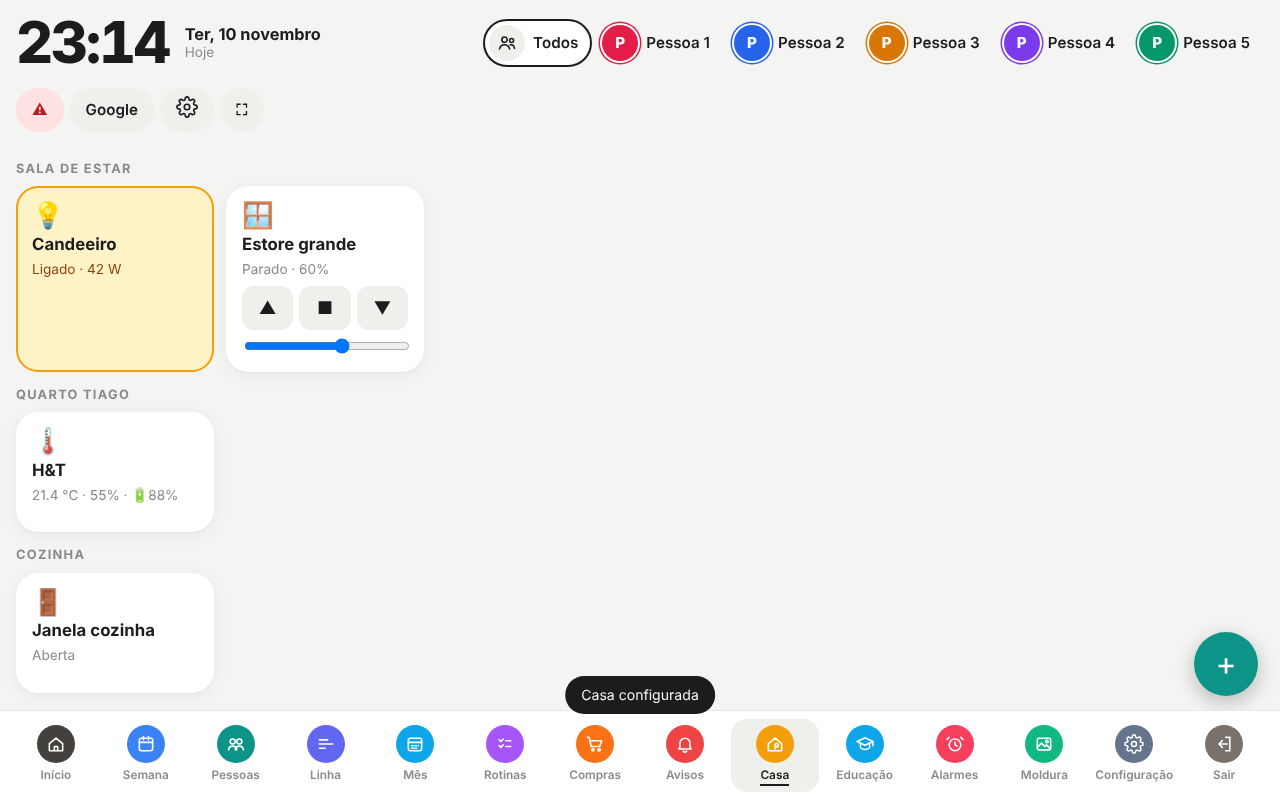
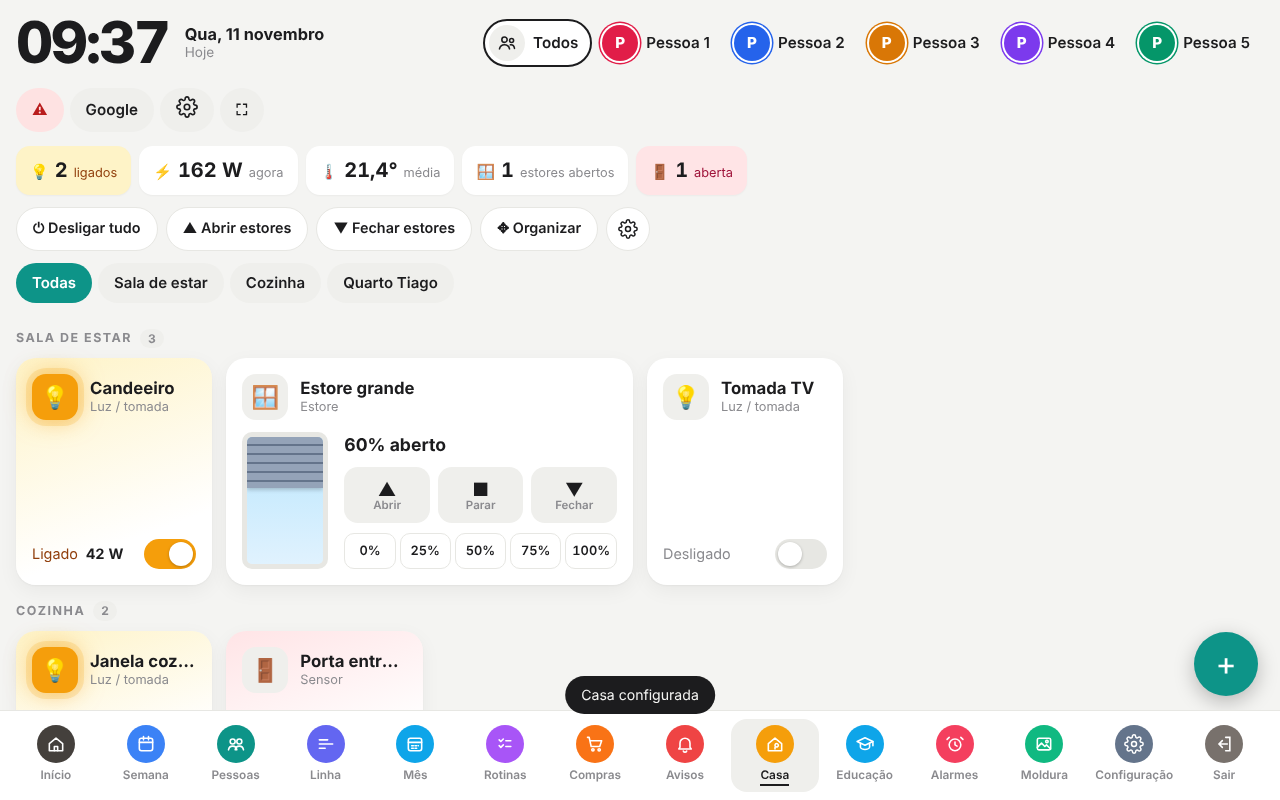
Casa: novo layout (resumo, ações rápidas, filtro por divisão, estores com janela e posições) e modo Organizar para arrastar cartões
Claude-Session: https://claude.ai/code/session_01Ya5v9GQ5A2ZK6yAftn9L3q

diff --git a/js/app.js b/js/app.js
@@ -1071,7 +1071,7 @@ function renderWall(){
   const navSafe=()=>safe(navBar,'o menu');
   html=(v==='moldura'?safe(wallFrame,'a Moldura'):safe(wallHead,'o topo')+safe(body,'esta vista')+fab)+navSafe();
   document.getElementById('wall').innerHTML=html;
-  refocus();dockVideo();initSort();if(ytFocus){const q=document.getElementById(ytFocus);if(q){q.focus();q.setSelectionRange(q.value.length,q.value.length)}}if(v==='moldura'&&S.frameMode==='radio')loadStations(false);
+  refocus();dockVideo();initSort();if(v==='casa')shInitSort();if(ytFocus){const q=document.getElementById(ytFocus);if(q){q.focus();q.setSelectionRange(q.value.length,q.value.length)}}if(v==='moldura'&&S.frameMode==='radio')loadStations(false);
 }
 function wallShopping(){return shopBody(true)}
 function toMin(hm){const[h,m]=String(hm).split(':').map(Number);return h*60+(m||0)}
@@ -2426,24 +2426,80 @@ async function shNames(st){const out={};
   try{const d=await shPost('/device/all_status',{show_info:'true'});Object.entries((d&&d.devices_status)||{}).forEach(([id,s])=>{const i=s._dev_info||{};
     if(i.name&&!(out[id+'|0']&&out[id+'|0'].name))out[id+'|0']={name:i.name,room:i.room_name||''}});if(d&&d.devices_status)Object.assign(st,d.devices_status)}catch(e){}
   return out}
+// vários comandos seguidos respeitando o limite da Shelly Cloud (1 pedido por segundo)
+async function shBatch(devs,fn){if(!devs.length)return;toast('A enviar para '+devs.length+(devs.length===1?' dispositivo':' dispositivos')+'…');
+  for(let i=0;i<devs.length;i++){try{await fn(devs[i])}catch(e){toast(e.message)}if(i<devs.length-1)await new Promise(r=>setTimeout(r,1100))}setTimeout(()=>shRefresh(true),1200)}
 function shKey(d){return d.id+'|'+d.type+'|'+(+d.channel||0)}
 function wallCasa(){
-  const c=shCfg(),devs=(c.devices||[]).filter(d=>d.on!==false);
-  if(!c.key||!shHost())return `<section class="casa"><div class="w-card" style="padding:20px"><h3 style="margin-top:0">🏠 Casa</h3><p>Liga a tua conta Shelly para controlar luzes, tomadas e estores e ver os sensores.</p><button class="addbtn" data-shcfg>Ligar Shelly Cloud</button></div></section>`;
+  const c=shCfg(),all=(c.devices||[]).filter(d=>d.on!==false);
+  if(!c.key||!shHost())return `<section class="casa"><div class="sh-empty"><span class="sh-empty-ic">🏠</span><h3>Casa</h3><p>Liga a tua conta Shelly para controlar luzes, tomadas e estores e ver os sensores.</p><button class="addbtn" data-shcfg>Ligar Shelly Cloud</button></div></section>`;
   if(!SH.poll){SH.poll=setInterval(()=>{if((S.wall&&S.wallView==='casa')||(!S.wall&&S.tab==='casa'))shRefresh(false);else{clearInterval(SH.poll);SH.poll=null}},10000)}
   if(!SH.st&&!SH.busy&&!SH.err)shRefresh(true);
-  if(!SH.namesTried&&devs.some(d=>!d.name||!d.room)){SH.namesTried=true;shNames({}).then(n=>{SH.names=n;if(Object.keys(n).length){if(S.wall&&S.wallView==='casa'&&!overlay.innerHTML)renderWall()}})}
+  if(!SH.namesTried&&all.some(d=>!d.name||!d.room)){SH.namesTried=true;shNames({}).then(n=>{SH.names=n;if(Object.keys(n).length&&S.wall&&S.wallView==='casa'&&!overlay.innerHTML)renderWall()})}
   const nmOf=d=>(SH.names&&(SH.names[d.id+'|'+(+d.channel||0)]||SH.names[d.id+'|0']))||{};
-  const rooms={};devs.forEach(d=>{const r=d.room||nmOf(d).room||'Casa';(rooms[r]=rooms[r]||[]).push(d)});
-  const tile=d=>{const s=shState(d);const nm=esc(d.name||nmOf(d).name||d.id);const off=s&&s.online===false;
-    if(d.type==='switch')return `<button class="sh-tile sh-sw${s&&s.on?' on':''}${off?' offline':''}" data-shsw="${esc(shKey(d))}" aria-pressed="${!!(s&&s.on)}"><span class="sh-ic">${s&&s.on?'💡':'⚪'}</span><b>${nm}</b><small>${!s?'…':off?'Sem ligação':(s.on?'Ligado':'Desligado')+(s.w!=null&&s.w>0?' · '+Math.round(s.w)+' W':'')}</small></button>`;
-    if(d.type==='cover')return `<div class="sh-tile sh-cv${off?' offline':''}"><span class="sh-ic">🪟</span><b>${nm}</b><small>${!s?'…':off?'Sem ligação':(s.state==='open'||s.state==='opening'?'A subir':s.state==='close'||s.state==='closing'?'A descer':'Parado')+(s.pos!=null?' · '+s.pos+'%':'')}</small>
-      <div class="sh-cvb"><button data-shcv="${esc(shKey(d))}|open" aria-label="Subir">▲</button><button data-shcv="${esc(shKey(d))}|stop" aria-label="Parar">■</button><button data-shcv="${esc(shKey(d))}|close" aria-label="Descer">▼</button></div>
-      ${s&&s.pos!=null?`<input type="range" min="0" max="100" step="10" value="${s.pos}" data-shpos="${esc(shKey(d))}" aria-label="Posição">`:''}</div>`;
-    return `<div class="sh-tile sh-sn${off?' offline':''}"><span class="sh-ic">${s&&s.open!=null?(s.open?'🚪':'🔒'):s&&s.w!=null?'⚡':'🌡'}</span><b>${nm}</b><small>${!s?'…':off?'Sem ligação':[s.t!=null?Math.round(s.t*10)/10+' °C':'',s.h!=null?Math.round(s.h)+'%':'',s.open!=null?(s.open?'Aberta':'Fechada'):'',s.w!=null?Math.round(s.w)+' W':'',s.bat!=null?'🔋'+s.bat+'%':''].filter(Boolean).join(' · ')||'—'}</small></div>`};
-  return `<section class="casa">${SH.err?`<div class="w-card w-err" style="padding:12px 16px;margin-bottom:12px">${esc(SH.err)} <button class="ghost" data-shre>Tentar de novo</button></div>`:''}
-    ${devs.length?Object.entries(rooms).map(([r,ds])=>`<h3 class="sh-room">${esc(r)}</h3><div class="sh-grid">${ds.map(tile).join('')}</div>`).join(''):'<div class="w-card" style="padding:20px">Ainda não escolheste dispositivos. <button class="addbtn" data-shcfg>Escolher dispositivos</button></div>'}
-    <p class="small muted" style="margin-top:14px">${SH.at?'Atualizado às '+new Date(SH.at).toTimeString().slice(0,5)+' · ':''}<button class="edit" data-shcfg>Configurar</button></p></section>`}
+  const roomOf=d=>d.room||nmOf(d).room||'Casa';
+  const roomNames=[...new Set(all.map(roomOf))];
+  const fr=S.shRoom&&roomNames.includes(S.shRoom)?S.shRoom:'';
+  const devs=fr?all.filter(d=>roomOf(d)===fr):all;
+  // resumo
+  const st=all.map(d=>[d,shState(d)]);
+  const lightsOn=st.filter(([d,s])=>d.type==='switch'&&s&&s.on).length;
+  const watts=st.reduce((a,[d,s])=>a+(s&&s.w>0?s.w:0),0);
+  const temps=st.filter(([d,s])=>s&&s.t!=null).map(([d,s])=>s.t);
+  const openW=st.filter(([d,s])=>s&&s.open===true).length;
+  const coversOpen=st.filter(([d,s])=>d.type==='cover'&&s&&s.pos>0).length;
+  const chip=(ic,v,l,cls='')=>`<div class="sh-sum${cls}"><span>${ic}</span><b>${v}</b><small>${l}</small></div>`;
+  const summary=`<div class="sh-top">
+    <div class="sh-sums">${chip('💡',lightsOn,lightsOn===1?'ligado':'ligados',lightsOn?' hot':'')}${chip('⚡',Math.round(watts)+' W','agora')}${temps.length?chip('🌡',(Math.round(temps.reduce((a,b)=>a+b,0)/temps.length*10)/10).toLocaleString('pt-PT')+'°','média'):''}${chip('🪟',coversOpen,'estores abertos')}${openW?chip('🚪',openW,openW===1?'aberta':'abertas',' warn'):''}</div>
+    <div class="sh-acts">
+      ${lightsOn?`<button class="sh-act" data-shall="off">⏻ Desligar tudo</button>`:''}
+      ${st.some(([d])=>d.type==='cover')?`<button class="sh-act" data-shallcv="open">▲ Abrir estores</button><button class="sh-act" data-shallcv="close">▼ Fechar estores</button>`:''}
+      <button class="sh-act${S.shEdit?' on':''}" data-shedit aria-pressed="${!!S.shEdit}">${S.shEdit?'✓ Concluído':'✥ Organizar'}</button>
+      <button class="sh-act ic" data-shcfg aria-label="Configurar">${GEAR}</button>
+    </div></div>
+    ${roomNames.length>1?`<div class="sh-rooms" role="group" aria-label="Divisões"><button data-shroom="" aria-pressed="${!fr}">Todas</button>${roomNames.map(r=>`<button data-shroom="${esc(r)}" aria-pressed="${fr===r}">${esc(r)}</button>`).join('')}</div>`:''}`;
+  const sub=(s,off,txt)=>!s?'<span class="sh-dim">a carregar…</span>':off?'<span class="sh-off">Sem ligação</span>':txt;
+  const tile=d=>{const s=shState(d),k=esc(shKey(d)),nm=esc(d.name||nmOf(d).name||d.id),off=s&&s.online===false;
+    const head=(ic,cls='')=>`<div class="sh-h"><span class="sh-ic${cls}">${ic}</span><span class="sh-nm"><b>${nm}</b><small>${d.type==='switch'?'Luz / tomada':d.type==='cover'?'Estore':'Sensor'}</small></span></div>`;
+    if(d.type==='switch'){const on=!!(s&&s.on);
+      return `<div class="sh-tile sh-sw${on?' on':''}${off?' offline':''}" data-k="${k}"><button class="sh-hit" data-shsw="${k}" aria-pressed="${on}" aria-label="${nm}: ${on?'desligar':'ligar'}"></button>
+        ${head(on?'💡':'💡',on?' lit':'')}
+        <div class="sh-ft"><span class="sh-st">${sub(s,off,on?'Ligado':'Desligado')}${on&&s.w>0?`<em>${Math.round(s.w)} W</em>`:''}</span><span class="sh-tg" aria-hidden="true"><i></i></span></div></div>`}
+    if(d.type==='cover'){const pos=s&&s.pos!=null?s.pos:null,mv=s&&(s.state==='open'||s.state==='opening')?'up':s&&(s.state==='close'||s.state==='closing')?'down':'';
+      const closed=pos==null?50:100-pos;
+      return `<div class="sh-tile sh-cv${off?' offline':''}" data-k="${k}">
+        ${head('🪟')}
+        <div class="sh-cvb">
+          <div class="sh-win${mv?' mv-'+mv:''}" aria-hidden="true"><div class="sh-sky"></div><div class="sh-slats" style="height:${closed}%"></div></div>
+          <div class="sh-cvc">
+            <div class="sh-st big">${sub(s,off,mv==='up'?'A abrir…':mv==='down'?'A fechar…':pos===0?'Fechado':pos===100?'Aberto':pos!=null?pos+'% aberto':'Parado')}</div>
+            <div class="sh-btns"><button data-shcv="${k}|open" aria-label="Abrir">▲<small>Abrir</small></button><button data-shcv="${k}|stop" aria-label="Parar">■<small>Parar</small></button><button data-shcv="${k}|close" aria-label="Fechar">▼<small>Fechar</small></button></div>
+            ${pos!=null?`<div class="sh-pre">${[0,25,50,75,100].map(p=>`<button data-shpre="${k}|${p}" aria-pressed="${Math.abs(pos-p)<5}">${p}%</button>`).join('')}</div>`:''}
+          </div></div></div>`}
+    // sensores
+    if(s&&s.open!=null&&s.t==null)return `<div class="sh-tile sh-sn sh-door ${s.open?'open':'shut'}${off?' offline':''}" data-k="${k}">${head(s.open?'🚪':'🔒')}
+      <div class="sh-big">${off?'—':s.open?'Aberta':'Fechada'}</div>${s.bat!=null?`<div class="sh-mini">🔋 ${s.bat}%</div>`:''}</div>`;
+    if(s&&s.t==null&&s.w!=null)return `<div class="sh-tile sh-sn${off?' offline':''}" data-k="${k}">${head('⚡')}<div class="sh-big">${Math.round(s.w)}<span>W</span></div></div>`;
+    return `<div class="sh-tile sh-sn${off?' offline':''}" data-k="${k}">${head('🌡')}
+      <div class="sh-big">${s&&s.t!=null?(Math.round(s.t*10)/10).toLocaleString('pt-PT')+'<span>°C</span>':sub(s,off,'—')}</div>
+      <div class="sh-mini">${s&&s.h!=null?`<span>💧 ${Math.round(s.h)}%</span>`:''}${s&&s.bat!=null?`<span>🔋 ${s.bat}%</span>`:''}${s&&s.open!=null?`<span>${s.open?'🚪 Aberta':'🔒 Fechada'}</span>`:''}</div></div>`};
+  const groups={};devs.forEach(d=>{const r=roomOf(d);(groups[r]=groups[r]||[]).push(d)});
+  const body=devs.length?Object.entries(groups).map(([r,ds])=>`${fr?'':`<h3 class="sh-room">${esc(r)}<small>${ds.length}</small></h3>`}<div class="sh-grid${S.shEdit?' editing':''}" data-shgrid="${esc(r)}">${ds.map(tile).join('')}</div>`).join('')
+    :'<div class="sh-empty"><p>Ainda não escolheste dispositivos.</p><button class="addbtn" data-shcfg>Escolher dispositivos</button></div>';
+  return `<section class="casa">${summary}${SH.err?`<div class="w-card w-err" style="padding:12px 16px;margin:0 0 12px">${esc(SH.err)} <button class="ghost" data-shre>Tentar de novo</button></div>`:''}
+    ${S.shEdit?'<p class="sh-hint">Arrasta os cartões para os reorganizar. Larga-os noutra divisão para os mudar de divisão.</p>':''}
+    ${body}<p class="small muted sh-upd">${SH.at?'Atualizado às '+new Date(SH.at).toTimeString().slice(0,5):''}</p></section>`}
+function shSaveOrder(){const c=shCfg();const devs=[...(c.devices||[])];const byK={};devs.forEach(d=>byK[shKey(d)]=d);
+  const seen=new Set(),out=[];
+  document.querySelectorAll('[data-shgrid]').forEach(g=>{const room=g.dataset.shgrid;g.querySelectorAll('.sh-tile[data-k]').forEach(t=>{const d=byK[t.dataset.k];if(!d||seen.has(t.dataset.k))return;seen.add(t.dataset.k);
+    out.push(S.shRoom?d:{...d,room:room==='Casa'&&!d.room?d.room:room})})});
+  devs.forEach(d=>{if(!seen.has(shKey(d)))out.push(d)});
+  // com filtro de divisão ativo, manter a posição relativa das outras divisões
+  const nc={...c,devices:out};S.shelly=nc;if(S.db)S.db.doc('config/shelly').set(nc).catch(handleWriteError)}
+function shInitSort(){if(!S.shEdit)return;const gs=[...document.querySelectorAll('[data-shgrid]')];if(!gs.length)return;
+  loadSortable().then(Sortable=>gs.forEach(g=>{if(!g.isConnected||g._sort)return;
+    g._sort=Sortable.create(g,{group:'shelly',animation:200,draggable:'.sh-tile',ghostClass:'sh-ghost',chosenClass:'sh-chosen',
+      onStart:()=>{S.dragging=true},onEnd:()=>{S.dragging=false;S.dragAt=Date.now();shSaveOrder();setTimeout(()=>{if(S.wall&&S.wallView==='casa'&&!overlay.innerHTML)renderWall()},250)}})})).catch(()=>{})}
 function shSheet(){const c=shCfg();let found=null;
   let names={};const devRows=list=>list.map((d,i)=>{const nm=names[d.id+'|'+(+d.channel||0)]||names[d.id+'|0']||{};const cur0=(c.devices||[]).find(x=>shKey(x)===shKey(d))||{};const cur={...cur0,name:cur0.name||nm.name||'',room:cur0.room||nm.room||''};return `<div class="sh-row"><label class="prof-chk"><input type="checkbox" name="on_${i}" ${cur0.id?(cur0.on!==false?'checked':''):'checked'}></label>
     <span class="sh-ty">${d.type==='switch'?'💡':d.type==='cover'?'🪟':'🌡'}</span><input name="nm_${i}" value="${esc(cur.name||'')}" placeholder="${esc(d.id)}${d.channel?' · canal '+d.channel:''}" style="flex:2;min-width:120px"><input name="rm_${i}" value="${esc(cur.room||'')}" placeholder="Divisão" list="sh-rooms" style="flex:1;min-width:90px"></div>`}).join('');
@@ -2466,11 +2522,18 @@ function shSheet(){const c=shCfg();let found=null;
     catch(e){msg.textContent=e.net?'A Shelly Cloud não respondeu ao browser. Confirma o servidor; se estiver certo, ela pode estar a bloquear pedidos de páginas web — diz-me e eu monto um intermediário.':'Erro: '+e.message}
     finally{S.shelly=old}});
 }
-document.addEventListener('click',e=>{const b=e.target.closest('[data-shcfg],[data-shre],[data-shsw],[data-shcv]');if(!b)return;const d=b.dataset;
+document.addEventListener('click',e=>{const b=e.target.closest('[data-shcfg],[data-shre],[data-shsw],[data-shcv],[data-shpre],[data-shedit],[data-shroom],[data-shall],[data-shallcv]');if(!b)return;const d=b.dataset;
+  if(S.shEdit&&(d.shsw||d.shcv||d.shpre))return;
+  const rw=()=>{if(S.wall)renderWall();else render()};
+  if(d.shedit!==undefined){S.shEdit=!S.shEdit;rw();return}
+  if(d.shroom!==undefined){S.shRoom=d.shroom;rw();return}
+  if(d.shall){const devs=(shCfg().devices||[]).filter(x=>x.on!==false&&x.type==='switch'&&(shState(x)||{}).on);shBatch(devs,x=>shPost('/device/relay/control',{id:x.id,channel:String(+x.channel||0),turn:'off'}));return}
+  if(d.shallcv){const devs=(shCfg().devices||[]).filter(x=>x.on!==false&&x.type==='cover');shBatch(devs,x=>shPost('/device/relay/roller/control',{id:x.id,channel:String(+x.channel||0),direction:d.shallcv}));return}
+  if(d.shpre){const p=d.shpre.split('|'),pos=+p.pop(),dev=(shCfg().devices||[]).find(x=>shKey(x)===p.join('|'));if(dev)shCover(dev,null,pos);return}
   const find=k=>(shCfg().devices||[]).find(x=>shKey(x)===k);
   if(d.shcfg!==undefined){shSheet();return}
   if(d.shre!==undefined){shRefresh(true);return}
-  if(d.shsw){const dev=find(d.shsw);if(!dev)return;const s=shState(dev);const on=!(s&&s.on);b.classList.toggle('on',on);shSwitch(dev,on);return}
+  if(d.shsw){const dev=find(d.shsw);if(!dev)return;const s=shState(dev);const on=!(s&&s.on);const t=b.closest('.sh-tile');if(t)t.classList.toggle('on',on);shSwitch(dev,on);return}
   if(d.shcv){const p=d.shcv.split('|'),dir=p.pop(),dev=find(p.join('|'));if(dev)shCover(dev,dir);return}
 });
 document.addEventListener('change',e=>{const r=e.target.closest('[data-shpos]');if(!r)return;const dev=(shCfg().devices||[]).find(x=>shKey(x)===r.dataset.shpos);if(dev)shCover(dev,null,+r.value)});

diff --git a/css/style.css b/css/style.css
@@ -688,20 +688,83 @@ body.wall-mode .edu .panel,body.wall-mode section.edu{background:transparent;bor
 .relay-ok h1{color:var(--accent)}
 
 /* Casa (Shelly) */
-.casa{display:flex;flex-direction:column}
-.sh-room{margin:14px 0 8px;font-size:.8rem;letter-spacing:.1em;text-transform:uppercase;color:var(--muted)}
-.sh-grid{display:grid;grid-template-columns:repeat(auto-fill,minmax(170px,1fr));gap:12px}
-.sh-tile{display:flex;flex-direction:column;align-items:flex-start;gap:6px;min-height:120px;padding:16px;border:0;border-radius:var(--r,18px);background:var(--surface);color:var(--fg);text-align:left;box-shadow:0 1px 2px rgb(0 0 0 / .04),0 4px 18px rgb(0 0 0 / .05)}
-.sh-tile b{font-size:1.05rem;font-weight:700;line-height:1.2}
-.sh-tile small{color:var(--muted);font-size:.85rem}
-.sh-ic{font-size:1.6rem;line-height:1}
-.sh-sw.on{background:#FEF3C7;box-shadow:inset 0 0 0 2px #F59E0B}
-.sh-sw.on small{color:#92400E}
+.casa{display:flex;flex-direction:column;--sh-amber:#F59E0B;--sh-amber-soft:#FEF3C7;--sh-amber-ink:#92400E}
+.sh-top{display:flex;flex-wrap:wrap;gap:12px;align-items:center;justify-content:space-between;margin-bottom:12px}
+.sh-sums{display:flex;gap:8px;flex-wrap:wrap}
+.sh-sum{display:flex;align-items:baseline;gap:6px;padding:10px 14px;border-radius:14px;background:var(--surface);box-shadow:0 1px 2px rgb(0 0 0 / .04)}
+.sh-sum b{font-family:var(--display);font-size:1.25rem;font-variant-numeric:tabular-nums}
+.sh-sum small{color:var(--muted);font-size:.8rem}
+.sh-sum.hot{background:var(--sh-amber-soft)}.sh-sum.hot small{color:var(--sh-amber-ink)}
+.sh-sum.warn{background:#FFE4E6}.sh-sum.warn small{color:#9F1239}
+.sh-acts{display:flex;gap:8px;flex-wrap:wrap}
+.sh-act{min-height:44px;padding:0 16px;border:1px solid var(--line);border-radius:999px;background:var(--surface);color:var(--fg);font-weight:600;font-size:.9rem;display:inline-flex;align-items:center;gap:6px}
+.sh-act.ic{width:44px;padding:0;justify-content:center}.sh-act.ic svg{width:20px;height:20px}
+.sh-act.on{background:var(--fg);color:var(--bg);border-color:var(--fg)}
+.sh-rooms{display:flex;gap:6px;overflow-x:auto;padding-bottom:4px;margin-bottom:6px;scrollbar-width:none}
+.sh-rooms button{flex:none;min-height:40px;padding:0 16px;border:0;border-radius:999px;background:var(--sunk);color:var(--fg);font-weight:600}
+.sh-rooms button[aria-pressed="true"]{background:var(--accent);color:var(--accent-ink)}
+.sh-room{display:flex;align-items:center;gap:8px;margin:16px 0 10px;font-size:.78rem;letter-spacing:.12em;text-transform:uppercase;color:var(--muted)}
+.sh-room small{font-size:.75rem;letter-spacing:0;background:var(--sunk);border-radius:999px;padding:1px 8px}
+.sh-grid{display:grid;grid-template-columns:repeat(auto-fill,minmax(190px,1fr));gap:14px;min-height:60px;border-radius:20px;transition:background .2s}
+.sh-tile{position:relative;display:flex;flex-direction:column;gap:12px;min-height:150px;padding:16px;border-radius:20px;background:var(--surface);color:var(--fg);box-shadow:0 1px 2px rgb(0 0 0 / .04),0 6px 20px rgb(0 0 0 / .05);transition:background .25s,box-shadow .25s,transform .2s}
+.sh-h{display:flex;align-items:center;gap:12px;min-width:0}
+.sh-ic{flex:none;display:grid;place-items:center;width:46px;height:46px;border-radius:14px;background:var(--sunk);font-size:1.4rem;transition:background .25s,box-shadow .25s}
+.sh-ic.lit{background:var(--sh-amber);box-shadow:0 0 0 6px rgb(245 158 11 / .18),0 0 24px rgb(245 158 11 / .55)}
+.sh-nm{display:flex;flex-direction:column;min-width:0}
+.sh-nm b{font-size:1.05rem;line-height:1.2;overflow:hidden;text-overflow:ellipsis;white-space:nowrap}
+.sh-nm small{color:var(--muted);font-size:.8rem}
+.sh-st{color:var(--muted);font-size:.9rem;display:flex;gap:8px;align-items:baseline}
+.sh-st em{font-style:normal;font-weight:700;color:var(--fg);font-variant-numeric:tabular-nums}
+.sh-st.big{font-size:1.1rem;font-weight:700;color:var(--fg)}
+.sh-dim{opacity:.6}.sh-off{color:#B91C1C}
+/* interruptor */
+.sh-sw{cursor:pointer}
+.sh-hit{position:absolute;inset:0;border:0;background:transparent;border-radius:inherit;z-index:1}
+.sh-hit:focus-visible{outline:3px solid var(--accent);outline-offset:2px}
+.sh-ft{margin-top:auto;display:flex;align-items:center;justify-content:space-between;gap:8px}
+.sh-tg{flex:none;width:52px;height:30px;border-radius:999px;background:var(--line);position:relative;transition:background .25s}
+.sh-tg i{position:absolute;top:3px;left:3px;width:24px;height:24px;border-radius:50%;background:#fff;box-shadow:0 1px 3px rgb(0 0 0 / .25);transition:transform .25s cubic-bezier(.3,.7,.4,1)}
+.sh-sw.on{background:linear-gradient(160deg,var(--sh-amber-soft),var(--surface) 75%)}
+.sh-sw.on .sh-tg{background:var(--sh-amber)}.sh-sw.on .sh-tg i{transform:translateX(22px)}
+.sh-sw.on .sh-st{color:var(--sh-amber-ink)}
+.sh-sw:active:not(.editing *){transform:scale(.98)}
+/* estores */
+.sh-cv{grid-column:span 2}
+.sh-cvb{display:flex;gap:16px;align-items:stretch}
+.sh-win{flex:none;position:relative;width:86px;min-height:120px;border-radius:10px;border:5px solid var(--line);overflow:hidden;background:var(--sunk)}
+.sh-sky{position:absolute;inset:0;background:linear-gradient(180deg,#BAE6FD,#E0F2FE)}
+.sh-slats{position:absolute;left:0;right:0;top:0;background:repeating-linear-gradient(180deg,#94A3B8 0 7px,#64748B 7px 9px);transition:height .6s ease;box-shadow:0 2px 4px rgb(0 0 0 / .2)}
+.sh-win.mv-up .sh-slats,.sh-win.mv-down .sh-slats{animation:shmv 1s ease-in-out infinite alternate}
+@keyframes shmv{to{filter:brightness(1.25)}}
+.sh-cvc{flex:1;display:flex;flex-direction:column;gap:10px;min-width:0}
+.sh-btns{display:grid;grid-template-columns:repeat(3,1fr);gap:8px}
+.sh-btns button{display:flex;flex-direction:column;align-items:center;justify-content:center;gap:2px;min-height:56px;border:0;border-radius:14px;background:var(--sunk);color:var(--fg);font-size:1.15rem;line-height:1}
+.sh-btns button small{font-size:.72rem;color:var(--muted);font-weight:600}
+.sh-btns button:active{background:var(--accent);color:var(--accent-ink)}
+.sh-pre{display:flex;gap:4px}
+.sh-pre button{flex:1;min-height:36px;border:1px solid var(--line);border-radius:10px;background:transparent;color:var(--fg);font-size:.8rem;font-weight:600;font-variant-numeric:tabular-nums}
+.sh-pre button[aria-pressed="true"]{background:var(--fg);color:var(--bg);border-color:var(--fg)}
+/* sensores */
+.sh-big{margin-top:auto;font-family:var(--display);font-size:2.6rem;font-weight:700;line-height:1;letter-spacing:-.02em;font-variant-numeric:tabular-nums}
+.sh-big span{font-size:1rem;font-weight:600;color:var(--muted);margin-left:4px}
+.sh-mini{display:flex;gap:12px;color:var(--muted);font-size:.85rem}
+.sh-door.open{background:linear-gradient(160deg,#FFE4E6,var(--surface) 75%)}.sh-door.open .sh-big{color:#BE123C}
+.sh-door.shut .sh-big{color:#047857;font-size:2rem}
 .sh-tile.offline{opacity:.5}
-.sh-cvb{display:flex;gap:6px;margin-top:auto;width:100%}
-.sh-cvb button{flex:1;min-height:44px;border:0;border-radius:12px;background:var(--sunk);color:var(--fg);font-size:1.1rem}
-.sh-cv input[type=range]{width:100%;min-height:0}
+/* organizar */
+.sh-grid.editing{background:repeating-linear-gradient(45deg,transparent 0 10px,rgb(0 0 0 / .025) 10px 20px);padding:6px}
+.sh-grid.editing .sh-tile{cursor:grab;animation:shwig .35s ease-in-out infinite alternate;outline:2px dashed var(--line);outline-offset:-2px}
+.sh-grid.editing .sh-tile:nth-child(2n){animation-delay:.15s}
+.sh-grid.editing .sh-hit{display:none}
+@keyframes shwig{from{transform:rotate(-.6deg)}to{transform:rotate(.6deg)}}
+@media (prefers-reduced-motion:reduce){.sh-grid.editing .sh-tile,.sh-win .sh-slats{animation:none}}
+.sh-ghost{opacity:.35}.sh-chosen{box-shadow:0 18px 40px rgb(0 0 0 / .2)!important;animation:none!important}
+.sh-hint{margin:0 0 6px;padding:10px 14px;border-radius:12px;background:var(--accent-soft);font-size:.9rem}
+.sh-empty{display:flex;flex-direction:column;align-items:flex-start;gap:8px;padding:24px;border-radius:20px;background:var(--surface)}
+.sh-empty h3{margin:0}.sh-empty-ic{font-size:2rem}
+.sh-upd{margin-top:14px}
 .sh-list{display:flex;flex-direction:column;gap:6px;margin-top:8px}
 .sh-row{display:flex;gap:8px;align-items:center;flex-wrap:wrap}
 .sh-ty{font-size:1.2rem}
-@media (prefers-color-scheme:dark){.sh-sw.on{background:#3A2E0B}.sh-sw.on small{color:#FCD34D}}
+@media (max-width:520px){.sh-cv{grid-column:1/-1}.sh-grid{grid-template-columns:repeat(2,1fr)}}
+@media (prefers-color-scheme:dark){:root:not([data-theme="light"]) .casa{--sh-amber-soft:#3A2E0B;--sh-amber-ink:#FCD34D}:root:not([data-theme="light"]) .sh-sum.warn,:root:not([data-theme="light"]) .sh-door.open{background:#3B0F1A}}

diff --git a/index.html b/index.html
@@ -16,10 +16,10 @@
 <link rel="preconnect" href="https://fonts.gstatic.com" crossorigin>
 <link rel="stylesheet" href="https://fonts.googleapis.com/css2?family=Plus+Jakarta+Sans:wght@400;500;600;700;800&family=Bricolage+Grotesque:opsz,wght@12..96,600;12..96,800&family=Figtree:wght@400;500;600&family=Nunito:wght@400;600;700;800&family=IBM+Plex+Sans:wght@400;500;600;700&family=IBM+Plex+Mono:wght@500;600&family=Sora:wght@300;600;700&family=Manrope:wght@400;500;700&family=Baloo+2:wght@500;600;700;800&display=swap">
 <link rel="stylesheet" href="css/base.css">
-<link rel="stylesheet" href="css/style.css?v=61">
+<link rel="stylesheet" href="css/style.css?v=62">
 <script src="config.js"></script>
-<script type="module" src="js/backend.js?v=61"></script>
-<script src="js/app.js?v=61" defer></script>
+<script type="module" src="js/backend.js?v=62"></script>
+<script src="js/app.js?v=62" defer></script>
 </head>
 <body>
 <div id="login" class="login" hidden>
